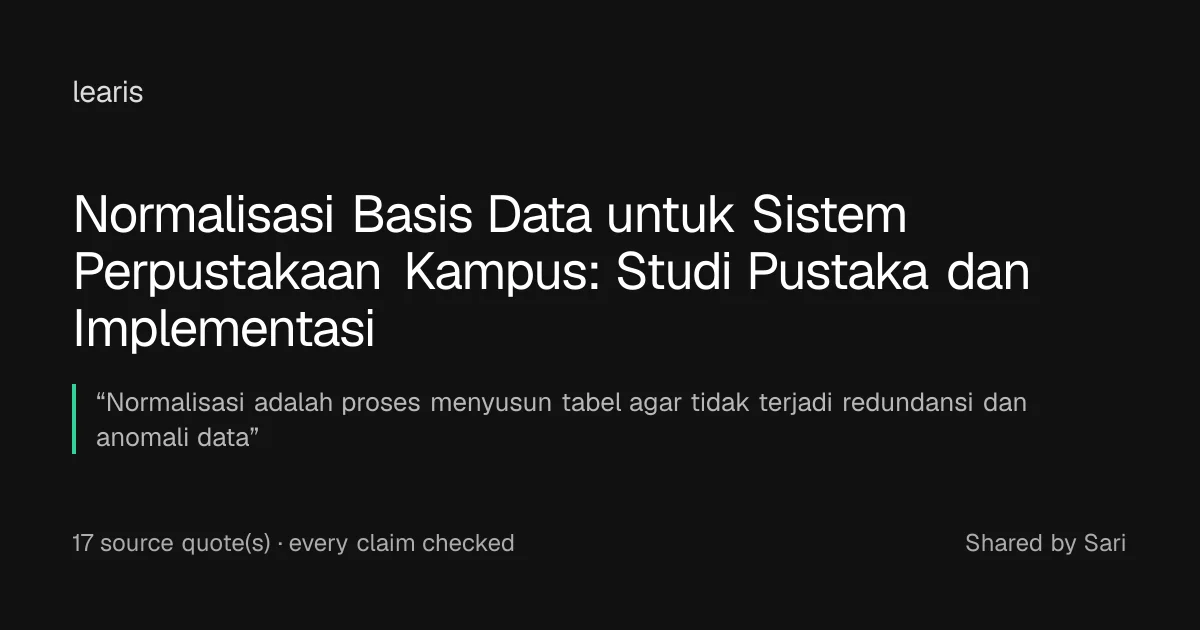
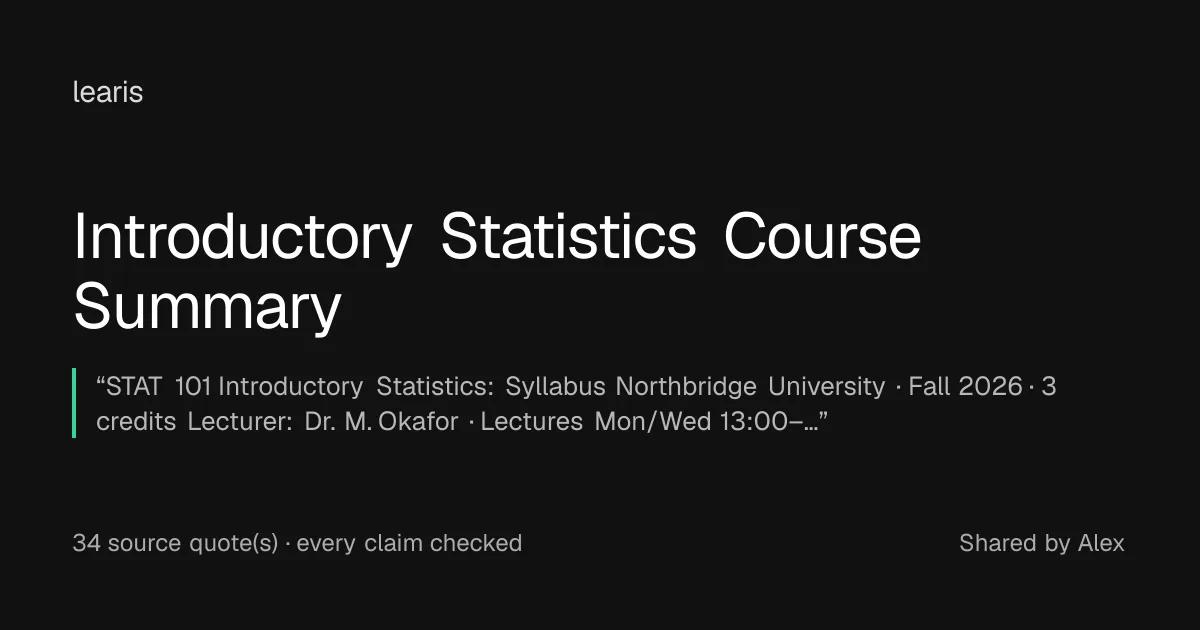
Landing page fully in English: English claim demo, wording without Indonesia-only references, screenshots retaken from an English demo account

Changed region(s): [[0.0617, 0.3016, 0.8942, 0.7238], [0.0617, 0.8444, 0.4317, 0.8746], [0.8017, 0.8444, 0.9558, 0.8746]]

diff --git a/app/welcome/bits.tsx b/app/welcome/bits.tsx
@@ -29,16 +29,16 @@ type Claim = {
   verdict: "supported" | "unsupported"; why: string; fixed?: string;
 };
 const CLAIMS: Claim[] = [
-  { n: 1, text: "Normalisasi menyusun tabel agar tidak terjadi redundansi dan anomali data",
-    file: "modul-normalisasi.md", quote: "Normalisasi adalah proses menyusun tabel agar tidak terjadi redundansi dan anomali data",
+  { n: 1, text: "Normalisation structures a database to reduce data redundancy and improve data integrity",
+    file: "reading-01-database-normalization.md", quote: "Database normalization is the process of structuring a relational database in accordance with a series of normal forms to reduce data redundancy and improve data integrity",
     verdict: "supported", why: "The quote says this, nearly word for word." },
-  { n: 2, text: "Sistem perpustakaan kampus membutuhkan minimal enam entitas utama",
-    file: "tugas-besar-basis-data.md", quote: "minimal 6 entitas: Anggota, Buku, Eksemplar, Peminjaman, Denda, Petugas",
+  { n: 2, text: "The campus library database needs at least six entities",
+    file: "brief-group-project-library-database.md", quote: "Your design must include at least six entities: Member, Book, Copy, Loan, Fine and Librarian",
     verdict: "supported", why: "Six entities, named in the assignment brief." },
-  { n: 3, text: "Tabel dalam 3NF selalu membuat query lebih cepat",
-    file: "modul-normalisasi.md", quote: "Tabel berada dalam 3NF jika sudah 2NF dan tidak ada ketergantungan transitif",
-    verdict: "unsupported", why: "The quote defines 3NF. It says nothing about speed.",
-    fixed: "Tabel dalam 3NF tidak memiliki ketergantungan transitif" },
+  { n: 3, text: "Tables in third normal form always make queries faster",
+    file: "reading-01-database-normalization.md", quote: "Most 3NF relations are free of insertion, updation, and deletion anomalies",
+    verdict: "unsupported", why: "The quote is about anomalies. It says nothing about speed.",
+    fixed: "Most tables in third normal form are free of insertion, update and deletion anomalies" },
 ];
 
 export function ClaimDemo() {
@@ -50,7 +50,7 @@ export function ClaimDemo() {
     <div className="grid gap-px overflow-hidden rounded-[6px] bg-white/15 md:grid-cols-[1.15fr_1fr]">
       <div className="bg-[#f3f3f1] p-6 text-[#161616] md:p-8">
         <p className="lw-mono text-[11px] tracking-[0.12em] text-[#77776f] uppercase">A page your agents wrote</p>
-        <h3 className="lw-serif mt-3 text-[26px] leading-tight">Normalisasi Basis Data</h3>
+        <h3 className="lw-serif mt-3 text-[26px] leading-tight">Database Normalisation</h3>
         <p className="mt-4 text-[15.5px] leading-[1.8] text-[#2b2b29]">
           {CLAIMS.map((x) => {
             const text = x.n === 3 && fixed ? x.fixed! : x.text;

diff --git a/app/welcome/page.tsx b/app/welcome/page.tsx
@@ -49,7 +49,7 @@ const PACK = [
   { name: "Tutor", body: "Asks what you already know, then teaches one step at a time from your own files." },
   { name: "Practice Coach", body: "Problems that make you recall which idea applies. Hints, not answers." },
   { name: "Review Panel", body: "A methods reviewer, a devil's advocate and an editor's decision on your draft." },
-  { name: "Report Formatter", body: "Lab report, makalah or journal paper, exported to Word in your campus format." },
+  { name: "Report Formatter", body: "Lab report, essay or journal paper, exported to Word in your campus format." },
 ];
 
 export default function Welcome() {
@@ -108,7 +108,7 @@ export default function Welcome() {
             {[
               ["400", "characters, the longest a quote may be. A source proves one sentence, never a whole file."],
               ["0", "deadlines guessed. A task gets a date only when a file states it."],
-              ["14", "campus and journal formats for the Word export, from UI and ITB to a journal paper."],
+              ["14", "campus and journal formats for the Word export, from a lab report to a journal paper."],
             ].map(([n, t], k) => (
               <Reveal key={n} className={`py-10 md:px-8 md:py-14 ${k ? "md:border-l md:border-dashed md:border-[var(--lw-line)]" : "md:pl-0"}`}>
                 <p className="lw-serif text-[76px] leading-none tabular-nums md:text-[96px]"><CountUp value={Number(n)} /></p>
@@ -266,7 +266,7 @@ export default function Welcome() {
           <div className="lw-frame mx-auto max-w-[1296px] px-4 py-20 md:px-6 md:py-28">
             <Reveal className="mx-auto max-w-[820px] border border-[var(--lw-line)] bg-[var(--lw-paper)] px-6 py-14 text-center shadow-[0_30px_80px_-40px_rgba(20,40,30,0.4)] md:px-16 md:py-20">
               <h2 className="lw-serif text-[40px] leading-[1.05] md:text-[58px]"><Words text="Bring this semester's files." /></h2>
-              <p className="mx-auto mt-4 max-w-[44ch] text-[16px] leading-relaxed text-[var(--lw-ink-2)]">Free. Works in Bahasa Indonesia and English, on your phone, with voice.</p>
+              <p className="mx-auto mt-4 max-w-[44ch] text-[16px] leading-relaxed text-[var(--lw-ink-2)]">Free. Agents answer in your language, on your phone, with voice.</p>
               <Link href={START} className="lw-btn lw-serif mt-9 inline-block bg-[var(--lw-ink)] px-10 py-4 text-[18px] text-white hover:bg-black">Start free</Link>
             </Reveal>
           </div>

diff --git a/app/welcome/motion.tsx b/app/welcome/motion.tsx
@@ -87,7 +87,7 @@ export function HeroStage() {
       <Sheet side="back" src="/landing/tasks.webp" alt="The Tasks board: every deadline from the files, with its date" />
       <Sheet side="back" src="/landing/chat.webp" alt="The Assistant: agents reading files, every tool call shown" />
       <Sheet side="front" src="/landing/page.webp" priority
-        alt="A LEARIS page: a research paper on database normalisation, each claim numbered, sources quoted on the right" />
+        alt="A LEARIS page: an Introductory Statistics course summary, each claim numbered, sources quoted on the right" />
     </div>
   );
 }
